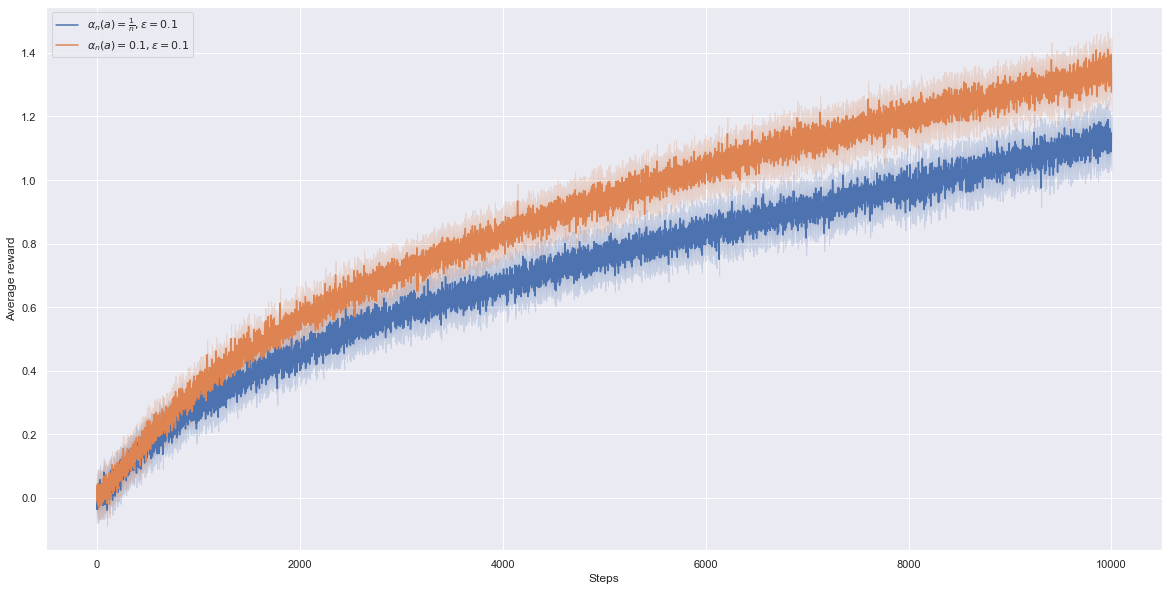
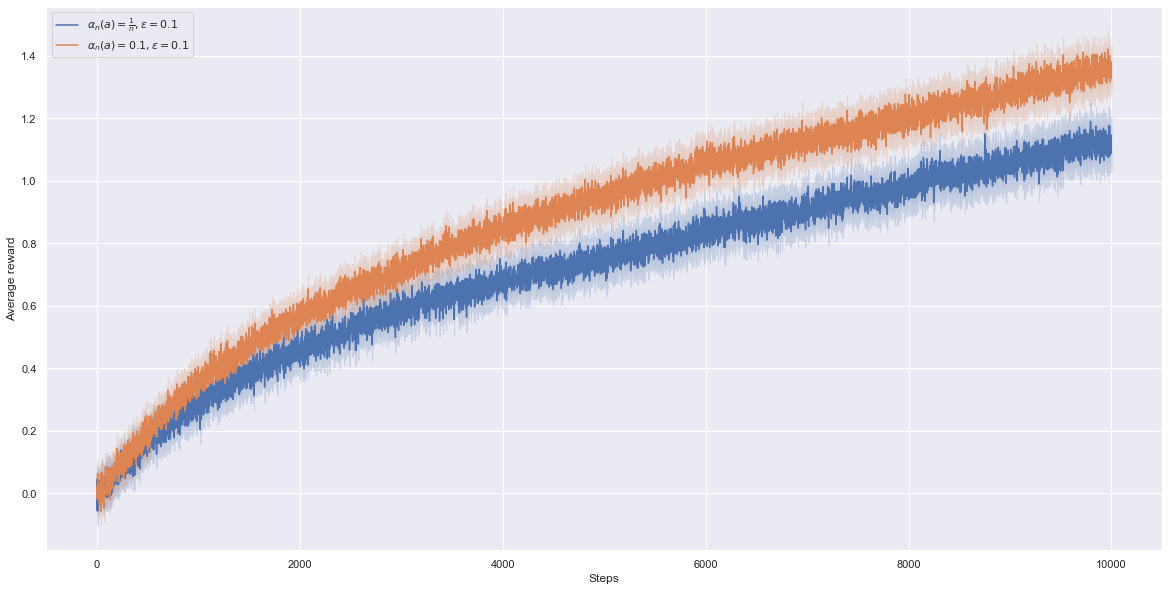
ties broken randomly

Changed region(s): [[0.0616, 0.0609, 0.9547, 0.8832], [0.0, 0.8223, 0.0308, 0.8528]]

diff --git a/Intro_RL_Sutton_book/Chap2-Multi-Armed-Bandits/10-armed-testbed/exploration_exploitation_experiment.py b/Intro_RL_Sutton_book/Chap2-Multi-Armed-Bandits/10-armed-testbed/exploration_exploitation_experiment.py
@@ -10,6 +10,24 @@ import matplotlib.pyplot as plt
 import seaborn as sns
 sns.set()
 
+def argmax_indices(Q: np.ndarray):
+    """
+    Return a numpy array containing all indices of the occurrences of the max.
+    np.argmax only gives the first occurrence.
+
+    Parameters
+    ----------
+    Q : np.ndarray
+        Table containing current estimates of action values.
+
+    Returns
+    -------
+    ndarray of dtype int64
+        all indices of the occurrences of the max.
+
+    """
+    return np.argwhere(Q == np.max(Q)).flatten()
+
 def eps_greedy(epsilon: float, Q: np.ndarray):
     """
     Epsilon-Greedy action selection with respect to Q 
@@ -33,8 +51,8 @@ def eps_greedy(epsilon: float, Q: np.ndarray):
         # random action
         return np.random.choice(np.arange(Q.size))
     else:
-        # greedy action
-        return np.argmax(Q)
+        # greedy action with ties broken randomly
+        return np.random.choice(argmax_indices(Q))
     
 def single_run(epsilon: float, horizon: int):
     """
@@ -66,9 +84,10 @@ def single_run(epsilon: float, horizon: int):
     Q = np.zeros(env.action_space.shape)
     # Number of times action was taken
     N = np.zeros(env.action_space.shape)
-    # The optimal action (does not change over time)
-    opt_action = np.argmax(env.q_star)
-    # Number of times optimal action was taken is in N[opt_action]
+    # The optimal actions (do not change over time)
+    opt_actions = argmax_indices(env.q_star)
+    # Number of times optimal action was taken
+    N_opt = 0
     
     list_Q = []
     list_reward = []
@@ -82,14 +101,17 @@ def single_run(epsilon: float, horizon: int):
         
         # Increment count
         N[action] += 1
-        
+        # If action is an optimal action (can have multiple)
+        if action in opt_actions:
+            N_opt += 1
+            
         # Update estimate of action values
         Q[action] += 1/N[action]*(reward - Q[action])
         
-        # Record Q[action], reward, N[opt_action] : used for plotting
+        # Record Q[action], reward, N_opt : used for plotting
         list_Q += [Q[action]]
         list_reward += [reward]
-        list_N_opt += [N[opt_action]]
+        list_N_opt += [N_opt]
         
     env.reset()
     return env.q_star, list_Q, list_reward, list_N_opt

diff --git a/Intro_RL_Sutton_book/Chap2-Multi-Armed-Bandits/non-stationary-testbed/non_stationary_problem_experiment.py b/Intro_RL_Sutton_book/Chap2-Multi-Armed-Bandits/non-stationary-testbed/non_stationary_problem_experiment.py
@@ -10,6 +10,24 @@ import matplotlib.pyplot as plt
 import seaborn as sns
 sns.set()
 
+def argmax_indices(Q: np.ndarray):
+    """
+    Return a numpy array containing all indices of the occurrences of the max.
+    np.argmax only gives the first occurrence.
+
+    Parameters
+    ----------
+    Q : np.ndarray
+        Table containing current estimates of action values.
+
+    Returns
+    -------
+    ndarray of dtype int64
+        all indices of the occurrences of the max.
+
+    """
+    return np.argwhere(Q == np.max(Q)).flatten()
+    
 def eps_greedy(epsilon: float, Q: np.ndarray):
     """
     Epsilon-Greedy action selection with respect to Q 
@@ -33,8 +51,8 @@ def eps_greedy(epsilon: float, Q: np.ndarray):
         # random action
         return np.random.choice(np.arange(Q.size))
     else:
-        # greedy action
-        return np.argmax(Q)
+        # greedy action with ties broken randomly
+        return np.random.choice(argmax_indices(Q))
     
 def single_run(epsilon: float, horizon: int, estimation_method="sample-avg", alpha=0.1):
     """
@@ -74,16 +92,15 @@ def single_run(epsilon: float, horizon: int, estimation_method="sample-avg", alp
     
     done = False
     while not done:
-        # The optimal action (changes over time)
-        opt_action = np.argmax(env.q_star)
-        # Number of times optimal action was taken is not in N[opt_action]
     
         action = eps_greedy(epsilon, Q)
         reward, done = env.step(action)
         
         # Increment count
         N[action] += 1
-        if action == opt_action:
+        # If action is an optimal action (can have multiple)
+        # The optimal action(s) can change over time
+        if action in argmax_indices(env.q_star):
             N_opt += 1
         
         # Update estimate of action values

diff --git a/Intro_RL_Sutton_book/Chap2-Multi-Armed-Bandits/10-armed-testbed/README.md b/Intro_RL_Sutton_book/Chap2-Multi-Armed-Bandits/10-armed-testbed/README.md
@@ -13,6 +13,7 @@ We also limit the number of action selections (time steps or horizon) to 1000.
 
 ## Average reward of epsilon-greedy action-value methods
 The filled areas are for the [95% confidence interval](https://seaborn.pydata.org/generated/seaborn.lineplot.html)
+
 ![avg reward](./images/avg_reward.png)
 
 We can observe that the greedy method seems bounded and stuck. This can be due to the method taking greedily suboptimal actions most of the time if current estimates are bad for the optimal action (because did not try enough the optimal action to get a good sense of how good it is) and can potentially never update estimates of actions with low values.

diff --git a/Intro_RL_Sutton_book/Chap2-Multi-Armed-Bandits/non-stationary-testbed/README.md b/Intro_RL_Sutton_book/Chap2-Multi-Armed-Bandits/non-stationary-testbed/README.md
@@ -17,8 +17,10 @@ Poor estimations of true action values lead to poor action selections and we can
 ## Percentage of optimal action
 
 The % optimal action means : how many percent of all previous actions (for instance if we are at step 500, how many percent of the previous 500 actions) the method took the optimal action(s) (recall that the action-values change over time, the optimal action can change over time).
+
 ![percent optimal action](./images/percent_optimal_action.png)
 
+The spike at the beginning is because all true action values are the same initially
 
 ## Remark(s) about implementation
 
